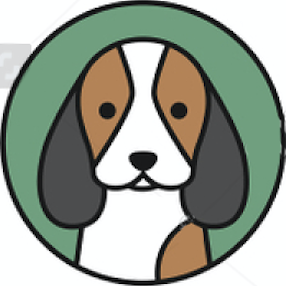
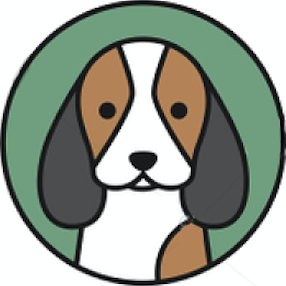
added two dogs and cleaned the images

Changed region(s): [[0.0, 0.1399, 0.1119, 0.3077], [0.979, 0.4196, 1.0, 0.5594]]

diff --git a/index.html b/index.html
@@ -1,5 +1,6 @@
 <!DOCTYPE html>
 <html lang="en">
+
 <head>
   <meta charset="UTF-8">
   <meta name="viewport" content="width=device-width, initial-scale=1.0">
@@ -8,8 +9,8 @@
   <link rel="stylesheet" href="styles.css">
   <title>Connect Four</title>
 </head>
-<body class="background">
 
+<body class="background">
   <div class="overall-container">
 
     <section id="player-one-box" class="player-box">
@@ -86,17 +87,19 @@
   </div>
 
   <div id="config-modal">
+
     <div id="config-content">
       <h1>Connect Four - Game Setup</h1>
       <form id="config-form">
         <label for="time-input">Time Limit Per Round (seconds): </label>
         <input id="time-input" type="number" name="time-input" min="1" max="216000"
-          placeholder="Enter a value from 1 to 216,000"> <!--Max 1 hr turn-->
+          placeholder="Enter a value from 1 to 216,000">
+        <!--Max 1 hr turn-->
         <br>
         <label for="rows-input">Rows (6-15): </label>
         <input id="rows-input" type="number" name="rows-input" min="6" max="15"
           placeholder="Enter a value from 6 to 15">
-          <br>
+        <br>
         <label for="columns-input">Columns (7-15): </label>
         <input id="columns-input" type="number" name="columns-input" min="7" max="15"
           placeholder="Enter a value from 7 to 15">
@@ -106,6 +109,21 @@
           <button id="custom-btn" type="button" class="button-glow">Accept Custom Settings</button>
         </section>
       </form>
+      <h1>CHOOSE YOUR CHARACTER!!!</h1>
+      <div class="dogContainer">
+        <div class="dogbeagle"></div>
+        <div class="dogbichon"></div>
+        <div class="dogchihuahua"></div>
+        <div class="dogfrench"></div>
+        <div class="doggolden"></div>
+        <div class="dogmaltese"></div>
+        <div class="dogpomeranian"></div>
+        <div class="dogpoodle"></div>
+        <div class="dogpug"></div>
+        <div class="dogshibainu"></div>
+        <div class="dogshihtzu"></div>
+        <div class="dogsnhauzer"></div>
+      </div>
     </div>
   </div>
 
@@ -118,4 +136,5 @@
 
   <script src="main.js"></script>
 </body>
+
 </html>

diff --git a/styles.css b/styles.css
@@ -230,3 +230,93 @@ button:hover {
 #config-modal.hidden {
   display: none;
 }
+
+.dogContainer{
+  display: flex;
+  flex-wrap: wrap;
+  width: 400px;
+}
+
+.dogbeagle{
+  background-image: url(images/dogbeagle.png);
+  background-size: contain;
+  height: 100px;
+  width: 100px;
+}
+
+.dogbichon{
+  background-image: url(images/dogbichon.png);
+  background-size: contain;
+  height: 100px;
+  width: 100px;
+}
+
+.dogchihuahua{
+  background-image: url(images/dogchihuahua.png);
+  background-size: contain;
+  height: 100px;
+  width: 100px;
+}
+
+.dogfrench{
+  background-image: url(images/dogfrench.png);
+  background-size: contain;
+  height: 100px;
+  width: 100px;
+}
+
+.doggolden{
+  background-image: url(images/doggolden.png);
+  background-size: contain;
+  height: 100px;
+  width: 100px;
+}
+
+.dogmaltese{
+  background-image: url(images/dogmaltese.png);
+  background-size: contain;
+  height: 100px;
+  width: 100px;
+}
+
+.dogpomeranian{
+  background-image: url(images/dogpomeranian.png);
+  background-size: contain;
+  height: 100px;
+  width: 100px;
+}
+
+.dogpoodle{
+  background-image: url(images/dogpoodle.png);
+  background-size: contain;
+  height: 100px;
+  width: 100px;
+}
+
+.dogpug{
+  background-image: url(images/dogpug.png);
+  background-size: contain;
+  height: 100px;
+  width: 100px;
+}
+
+.dogshibainu{
+  background-image: url(images/dogshibainu.png);
+  background-size: contain;
+  height: 100px;
+  width: 100px;
+}
+
+.dogshihtzu{
+  background-image: url(images/dogshihtzu.png);
+  background-size: contain;
+  height: 100px;
+  width: 100px;
+}
+
+.dogsnhauzer{
+  background-image: url(images/dogsnhauzer.png);
+  background-size: contain;
+  height: 100px;
+  width: 100px;
+}

diff --git a/main.js b/main.js
@@ -295,3 +295,13 @@ function resetBoard() {
   configModalEl.classList.remove("hidden");
   document.getElementById("win-modal").classList.add("hidden");
 }
+
+
+var dogSelector = document.getElementsByClassName("dogContainer");
+dogSelector.addEventListener("click", handleClick);
+function handleClick(event) {
+  if (event.target.className){
+    firstPlayer.setAttribute.event.target.className
+    secondPlayer.setAttribute.event.target.className
+  }
+  }
